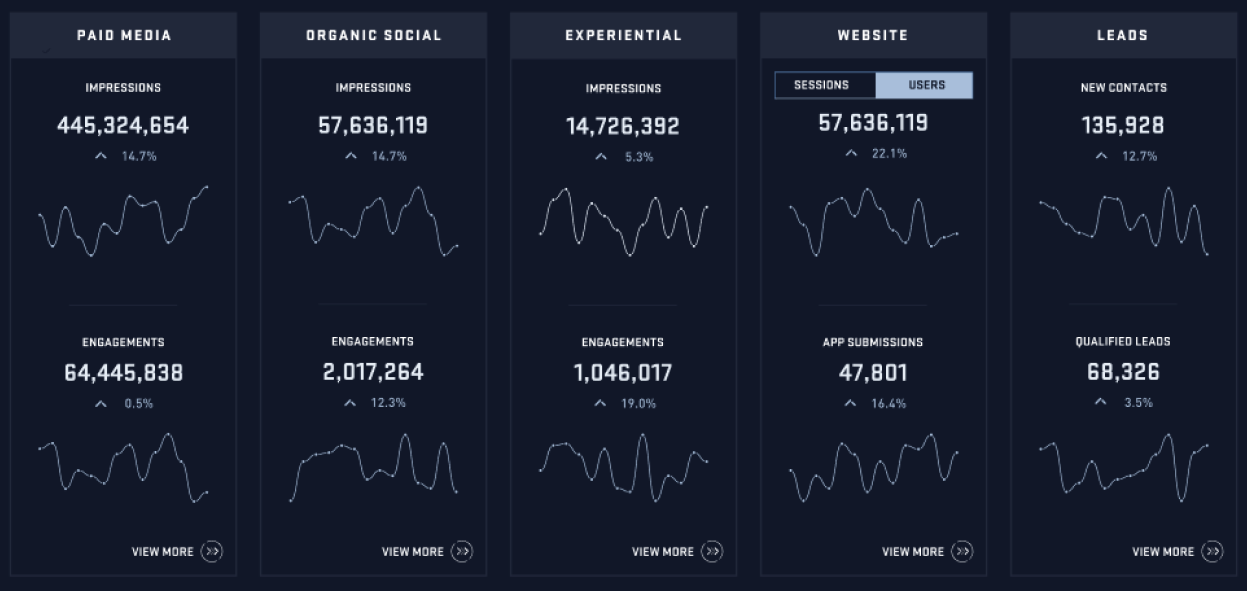
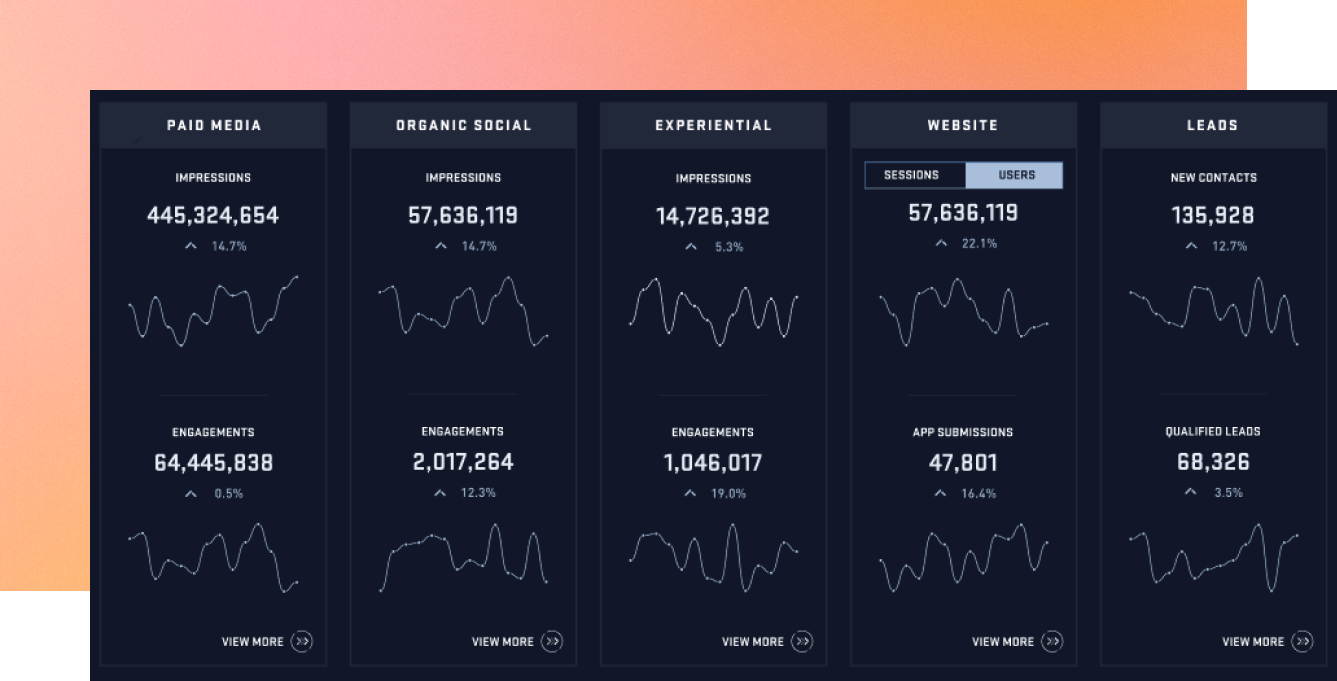
updates - 4/8/23 - 6:06PM

diff --git a/src/pages/work.js b/src/pages/work.js
@@ -3,13 +3,23 @@ import Layout from '../components/layout'
 import { StaticImage } from 'gatsby-plugin-image'
 import Main from './USN'
 import styled from 'styled-components'
+import Img from "gatsby-image"
+import {
+  dashboardImage
+} from './index.module.css'
 
 
 const WorkPage = () => {
   return (
     <Layout pageTitle="Work">
       <Work>
-        <Wrapper>
+      <Wrapper>
+
+        <StaticImage 
+        src='../assets/images/usaf-integrated-marketing-channel-dashboard.png'
+        className={dashboardImage}
+        />
+<WorkP1>
 <p>Pictured above is a sample dashboard designed for USAF Recruiting to encompass cross-channel marketing performance. Please note that the charts shown above include only mock sample data and do not reflect true performance in order to protect sensitive client information.</p>
       <br /><p>Data analytics often feels esoteric and confounding to the very people who benefit most from its understanding. In other words, measuring and interpreting data is not a lite task, especially taking complex concepts and calculations and conveying them to the layperson.</p>
       <br /><p>And then, we’re faced with another dilemma. All too often, the road to delivering these clean and ‘easy to digest’ analyses strips us of all imagination in how findings are presented.</p>
@@ -17,9 +27,11 @@ const WorkPage = () => {
       <br /><p>Nic has spent the past 6+ years in the marketing and advertising industry, chiefly as a data analyst for VMLY&R and GSD&M, supporting the U.S. Department of Defense recruiting mission on behalf of United States Navy, United States Air Force (Air Force Active Duty, Air Force Reserve, Air National Guard), and United States Space Force.</p>
       <br /><p>During this time, Nic has specialized in measurement and analytics implementation across the respective recruitment websites and organic social media channels for Navy, Air Force, and Space Force.</p>
       <br/>
+      </WorkP1>
       </Wrapper>
       <Main />
       <WrapperAlt>
+        <WorkP2>
       <p>Video captured during overnight Embark trip on behalf of U.S. Navy Recruiting aboard the U.S.S. John C. Stennis (CVN 74). </p>
       <br/><p>Nic’s experience has encompassed:</p>
 <li>Full website analytics and media tracking implementation through tag and pixel setup  </li>
@@ -28,6 +40,7 @@ const WorkPage = () => {
 <li>Creating integrated dashboard and automation through Tableau and Google Data Studio</li>
 <li>Writing Python scripts for web scraping, as well as data ETL and creating notebooks for data analysis</li>
 <li>Web design and development (including this very website through React.js)</li>
+</WorkP2>
 </WrapperAlt>
 
 </Work>
@@ -54,7 +67,8 @@ display:grid ;
 grid-template-columns: 1fr;
 grid-auto-rows: min-content;
 padding: 0 2rem;
-justify-items: center;
+padding-top: 1rem;
+justify-items: left;
 float: left;
 position: relative;
 background: #181B2C;
@@ -65,7 +79,7 @@ background: #181B2C;
 }
 `
 const WrapperAlt =  styled.div`
-display:grid ;
+display:grid;
 grid-template-columns: 1fr;
 grid-auto-rows: min-content;
 padding: 0 2rem;
@@ -79,4 +93,39 @@ padding-bottom: 120px;
   grid-template-columns: 1fr;
   background: #181B2C;
 }
+`
+const ProductCard = styled.div`
+line-height: 2;
+width: 100%;
+height: 500px;
+position: relative;
+border-radius: 10px;
+transition: 0.2s ease;
+padding-bottom: 1rem;
+`
+
+const ProductImg = styled(Img)`
+height:100%;
+max-width: 100%;
+position: relative;
+border-radius: 10px;
+filter: brightness(70%);
+transition: 0.4s cubic-bezier(0.075, 0.82, 0.165, 1);
+
+&hover{
+  filter: brightness(100%);
+}
+`
+
+
+const WorkP1 = styled.p`
+font-size: clamp(.75rem, 1vw, 1.5rem);
+padding-right:24px;
+padding-top:1rem;
+`
+
+const WorkP2 = styled.p`
+font-size: clamp(.75rem, 1vw, 1.5rem);
+padding-left:24px;
+padding-bottom: 120px;
 `

diff --git a/src/pages/itp-camp.js b/src/pages/itp-camp.js
@@ -8,13 +8,16 @@ const ITPCamp = () => {
   return (
     <Layout pageTitle="ITP Camp">
       <Camp>
+        <ITP1>
       <p>Howdy from Texas,</p>
       <br /><p>My name is Nic and I am a data science professional working in the marketing/advertising industry, with more than 6 years combined experience leading website and organic social media measurement on behalf of the U.S. Department of Defense recruiting mission for Navy [2016 - 2020], as well as Air Force, and our newest branch, Space Force [2020 - present].</p>
       <br /> <p>I have learned so much in these roles and I have been given the freedom to grow and the encouragement to move with curiosity and to take risks, both professionally and personally. The next challenge I foresee for myself is to explore the field of data not just as a mode of interpretation, but also as an outlet for creation. </p>
       <br /><p>NYU’s ITP Summer Camp seems like just the right avenue to immerse myself in a culture of change and inventiveness and to share back with the community a perspective and experience that is uniquely my own. </p>
       <br /> <p>As a foray into my expressive aspirations, I’ve conceptualized a sample project to explore in ITP Summer Camp, with background information below for consideration.</p>
-      <br /> <p>Concept
-While iTunes has sadly fallen by the wayside, the legacy is everlasting. A fixture of the iTunes experience was the visualizer that paired with one’s music library, giving users options to customize the experience and deliver a unique visual accompaniment with every listen.</p>
+      </ITP1>
+      <ITP2>
+      <br /> <p>Concept</p>
+<br/><p>While iTunes has sadly fallen by the wayside, the legacy is everlasting. A fixture of the iTunes experience was the visualizer that paired with one’s music library, giving users options to customize the experience and deliver a unique visual accompaniment with every listen.</p>
 <br /><p>With the advent of music streaming platforms and machine learning models, what if we could breathe life back into the ‘visualizer’? And what if this technology could extend beyond recorded music to capture and visualize live, real-time audio (and even video) signals as well? </p>
 <br /><p>Inputs
 Through our inputs, we’re able to imagine an array of influences that can help shape the visual experience. We may want to visualize our favorite artist as we listen to them on Spotify, and consider their existing visual design language or terms in the artist’s bio that can inform what we see. Or we’re playing a record on vinyl, and we can quickly listen for and identify the song, artist and album, query the track listing through the web, and sync the visual to that sound. Or we would like to visualize sounds in nature -- perhaps the noise captured by NASA’s Mars Perseverance rover, which launched with microphones aboard.</p>
@@ -40,7 +43,7 @@ After the data is transformed, the returned feedback will be our one-of-one acco
 <br /><p>I appreciate the time and attention you’ve given to my application. I am looking forward to attending NYU’s ITP Summer Camp 2023 and so hopeful to develop this project (and others) with backing from a community of like-minded and restless Campers, Session Leaders, and Counselors.</p>
 <br /><p>Cheers,</p>
 <br /><p>-Nic</p>
-
+</ITP2>
 </Camp>
     </Layout>
   )
@@ -59,4 +62,15 @@ color: #fff;
 margin-top:-96px;
 padding-top: 120px;
 }
+`
+
+const ITP1 = styled.p`
+font-size: clamp(.75rem, 1vw, 1.5rem);
+padding-right:24px;
+padding-top:1rem;
+`
+
+const ITP2 = styled.p`
+font-size: clamp(.75rem, 1vw, 1.5rem);
+padding-left:24px;
 `

diff --git a/src/components/layout.js b/src/components/layout.js
@@ -11,10 +11,10 @@ import {
   subHeader
 } from './layout.module.css'
 import { GlobalStyle } from './GlobalStyles'
-import {menuData} from '../data/MenuData'
+import { menuData } from '../data/MenuData'
 import { Button } from './Button'
-import {FaBars} from 'react-icons/fa'
-import {useState} from 'react'
+import { FaBars } from 'react-icons/fa'
+import { useState } from 'react'
 
 
 
@@ -34,48 +34,48 @@ function Layout({ pageTitle, children }) {
 
   let menu
 
-  if(showMenu){
-    menu=
-    <HMenu>
-      <MobileNavMenu>
-        <MobileNavLink>
-          <MobileLinkList >
-          {menuData.map((item,index) => (
-            <MobileNavLink to={item.link} key={index}>
-              {item.title}
-            </MobileNavLink>
-          ))}
-</MobileLinkList>
-</MobileNavLink>
-</MobileNavMenu>
-    </HMenu>
+  if (showMenu) {
+    menu =
+      <HMenu>
+        <MobileNavMenu>
+          <MobileNavLink>
+            <MobileLinkList >
+              {menuData.map((item, index) => (
+                <MobileNavLink to={item.link} key={index}>
+                  {item.title}
+                </MobileNavLink>
+              ))}
+            </MobileLinkList>
+          </MobileNavLink>
+        </MobileNavMenu>
+      </HMenu>
   }
 
   return (
 
     <div className={container}>
 
-       <Nav>
-       <Link to="/" className={navLinkText} style={{ textDecoration: 'none' }}>
-        <header className={siteTitle}>{data.site.siteMetadata.title}</header>
-        <h1 className={subHeader}>{data.site.siteMetadata.subHeader}</h1>
+      <Nav>
+        <Link to="/" className={navLinkText} style={{ textDecoration: 'none' }}>
+          <header className={siteTitle}>{data.site.siteMetadata.title}</header>
+          <h1 className={subHeader}>{data.site.siteMetadata.subHeader}</h1>
         </Link>
-       <Bars onClick ={() => setShowMenu(!showMenu)}/>
+        <Bars onClick={() => setShowMenu(!showMenu)} />
         <NavMenu>
-          {menuData.map((item,index) => (
+          {menuData.map((item, index) => (
             <NavLink to={item.link} key={index}>
               {item.title}
             </NavLink>
           ))}
         </NavMenu>
-        <NavBtn>
-          <Button to = "/" big="true" primary="true" round="true">Contact</Button>
-        </NavBtn>
-        </Nav>
-        {menu}
-    <main>
+        {/* <NavBtn>
+          <Button to="/" big="true" primary="true" round="true">Contact</Button>
+        </NavBtn> */}
+      </Nav>
+      {menu}
+      <main>
         {children}
-    </main>
+      </main>
     </div>
 
   )
@@ -110,6 +110,7 @@ const NavMenu = styled.div`
 display: flex;
 align-items:center;
 fill: #F2EFE8;
+justify-content:center;
 
 @media screen and (max-width: 768px){
 display: none;
@@ -200,6 +201,6 @@ const MobileLink = styled.li`
 background: #DEC4E9;
 cursor: pointer;
 font-family: "Eczar",serif;
-font-size: clamp(1rem, 1vw, 3rem);
+font-size: clamp(.75rem, 1vw, 3rem);
 
 `

diff --git a/gatsby-config.js b/gatsby-config.js
@@ -16,6 +16,17 @@ module.exports = {
     siteUrl: `https://gatsbystarterdefaultsource.gatsbyjs.io/`,
   },
   plugins: [
+    {
+      resolve: "gatsby-plugin-google-tagmanager",
+      options: {
+        id: "GTM-NLWWNDD",
+
+        includeInDevelopment: false,
+  
+        enableWebVitalsTracking: true,
+
+      },
+    },
     "gatsby-plugin-styled-components",
     "gatsby-plugin-mdx",
     "gatsby-plugin-image",
@@ -90,16 +101,6 @@ module.exports = {
         path: `./src/data/`,
       },
     },
-    {
-      resolve: "gatsby-plugin-google-tagmanager",
-      options: {
-        id: "GTM-NLWWNDD",
 
-        includeInDevelopment: false,
-  
-        enableWebVitalsTracking: true,
-
-      },
-    },
   ],
 }
